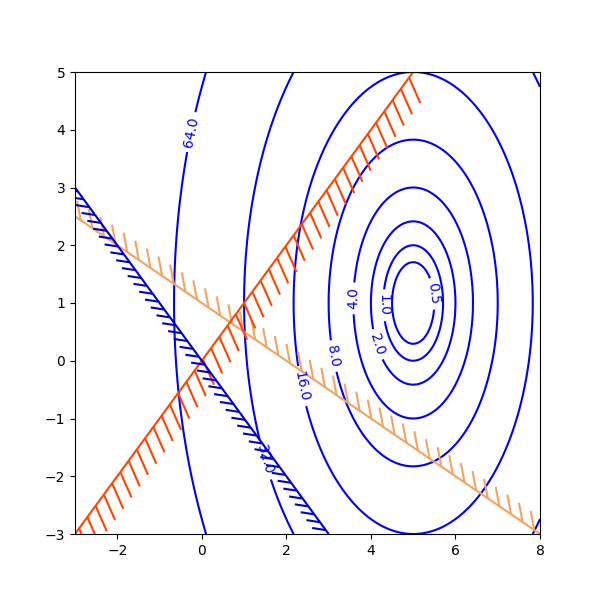
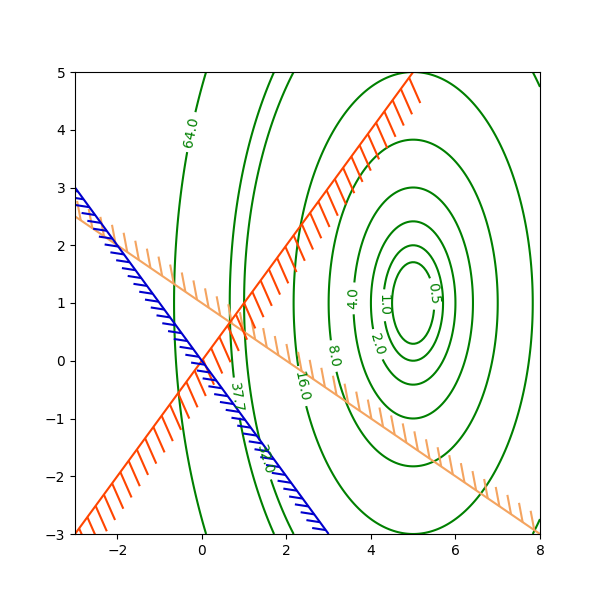
hw4 plot contours

diff --git a/hw4/hw4_plot.py b/hw4/hw4_plot.py
@@ -26,8 +26,7 @@ if __name__ == '__main__':
     g2 = x1 - x2
     g3 = -x1 - x2
 
-    cntr = ax.contour(x1, x2, obj, [0.5, 1, 2, 4, 8, 16, 32, 64],
-                      colors='blue')
+    cntr = ax.contour(x1, x2, obj, [0.5, 1, 2, 4, 8, 16, 32, 37.66666, 64], colors='green')
     ax.clabel(cntr, fmt="%2.1f", use_clabeltext=True)
 
     cg1 = ax.contour(x1, x2, g1, [0], colors='sandybrown')
